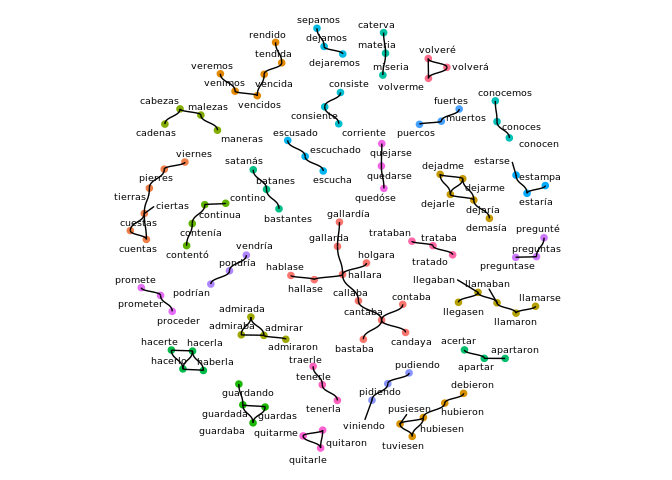
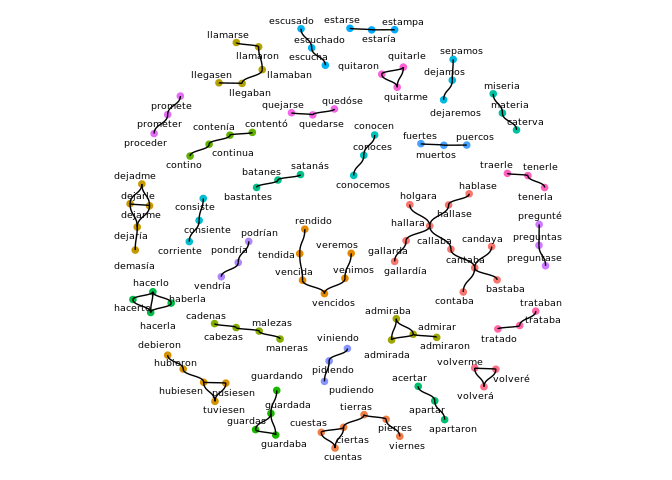
fixed man page

Changed region(s): [[0.1562, 0.0312, 0.8438, 0.9688]]

diff --git a/README.md b/README.md
@@ -73,22 +73,23 @@ cluster_plot(s_clust
 Supplied Data Set: Don Quijote's unique words
 ---------------------------------------------
 
-The `clustringr` package comes with `quijote_words`, a ~22k row data frame of the unique words in Cervantes' [Don Quijote](http://www.gutenberg.org/cache/epub/2000/pg2000.txt). From this word set we will sample a subset:
+The `clustringr` package comes with `quijote_words`, a ~22k row data frame of the unique words in Cervantes' [Don Quijote](http://www.gutenberg.org/cache/epub/2000/pg2000.txt).
+
+Let's sample these words into a smaller subset:
 
 ``` r
 library(dplyr)
-quijote_words_filtered <- clustringr::quijote_words %>%
-  # only terms which appear # times
+quijote_words_sampled <- clustringr::quijote_words %>%
   filter(between(freq,8,11),len>6) %>%
   pull("word")
-quijote_words_filtered%>%length
+quijote_words_sampled%>%length
 #> [1] 602
 ```
 
-To view these as a graph, showing only those clusters with at least 3 elements:
+Now let's cluster these and view the results as a graph-plot, showing only those clusters with at least 3 elements:
 
 ``` r
-quijote_words_filtered %>%
+quijote_words_sampled %>%
   cluster_strings(method="lv",max_dist=2) %>%
   cluster_plot(min_cluster_size=3)
 ```
